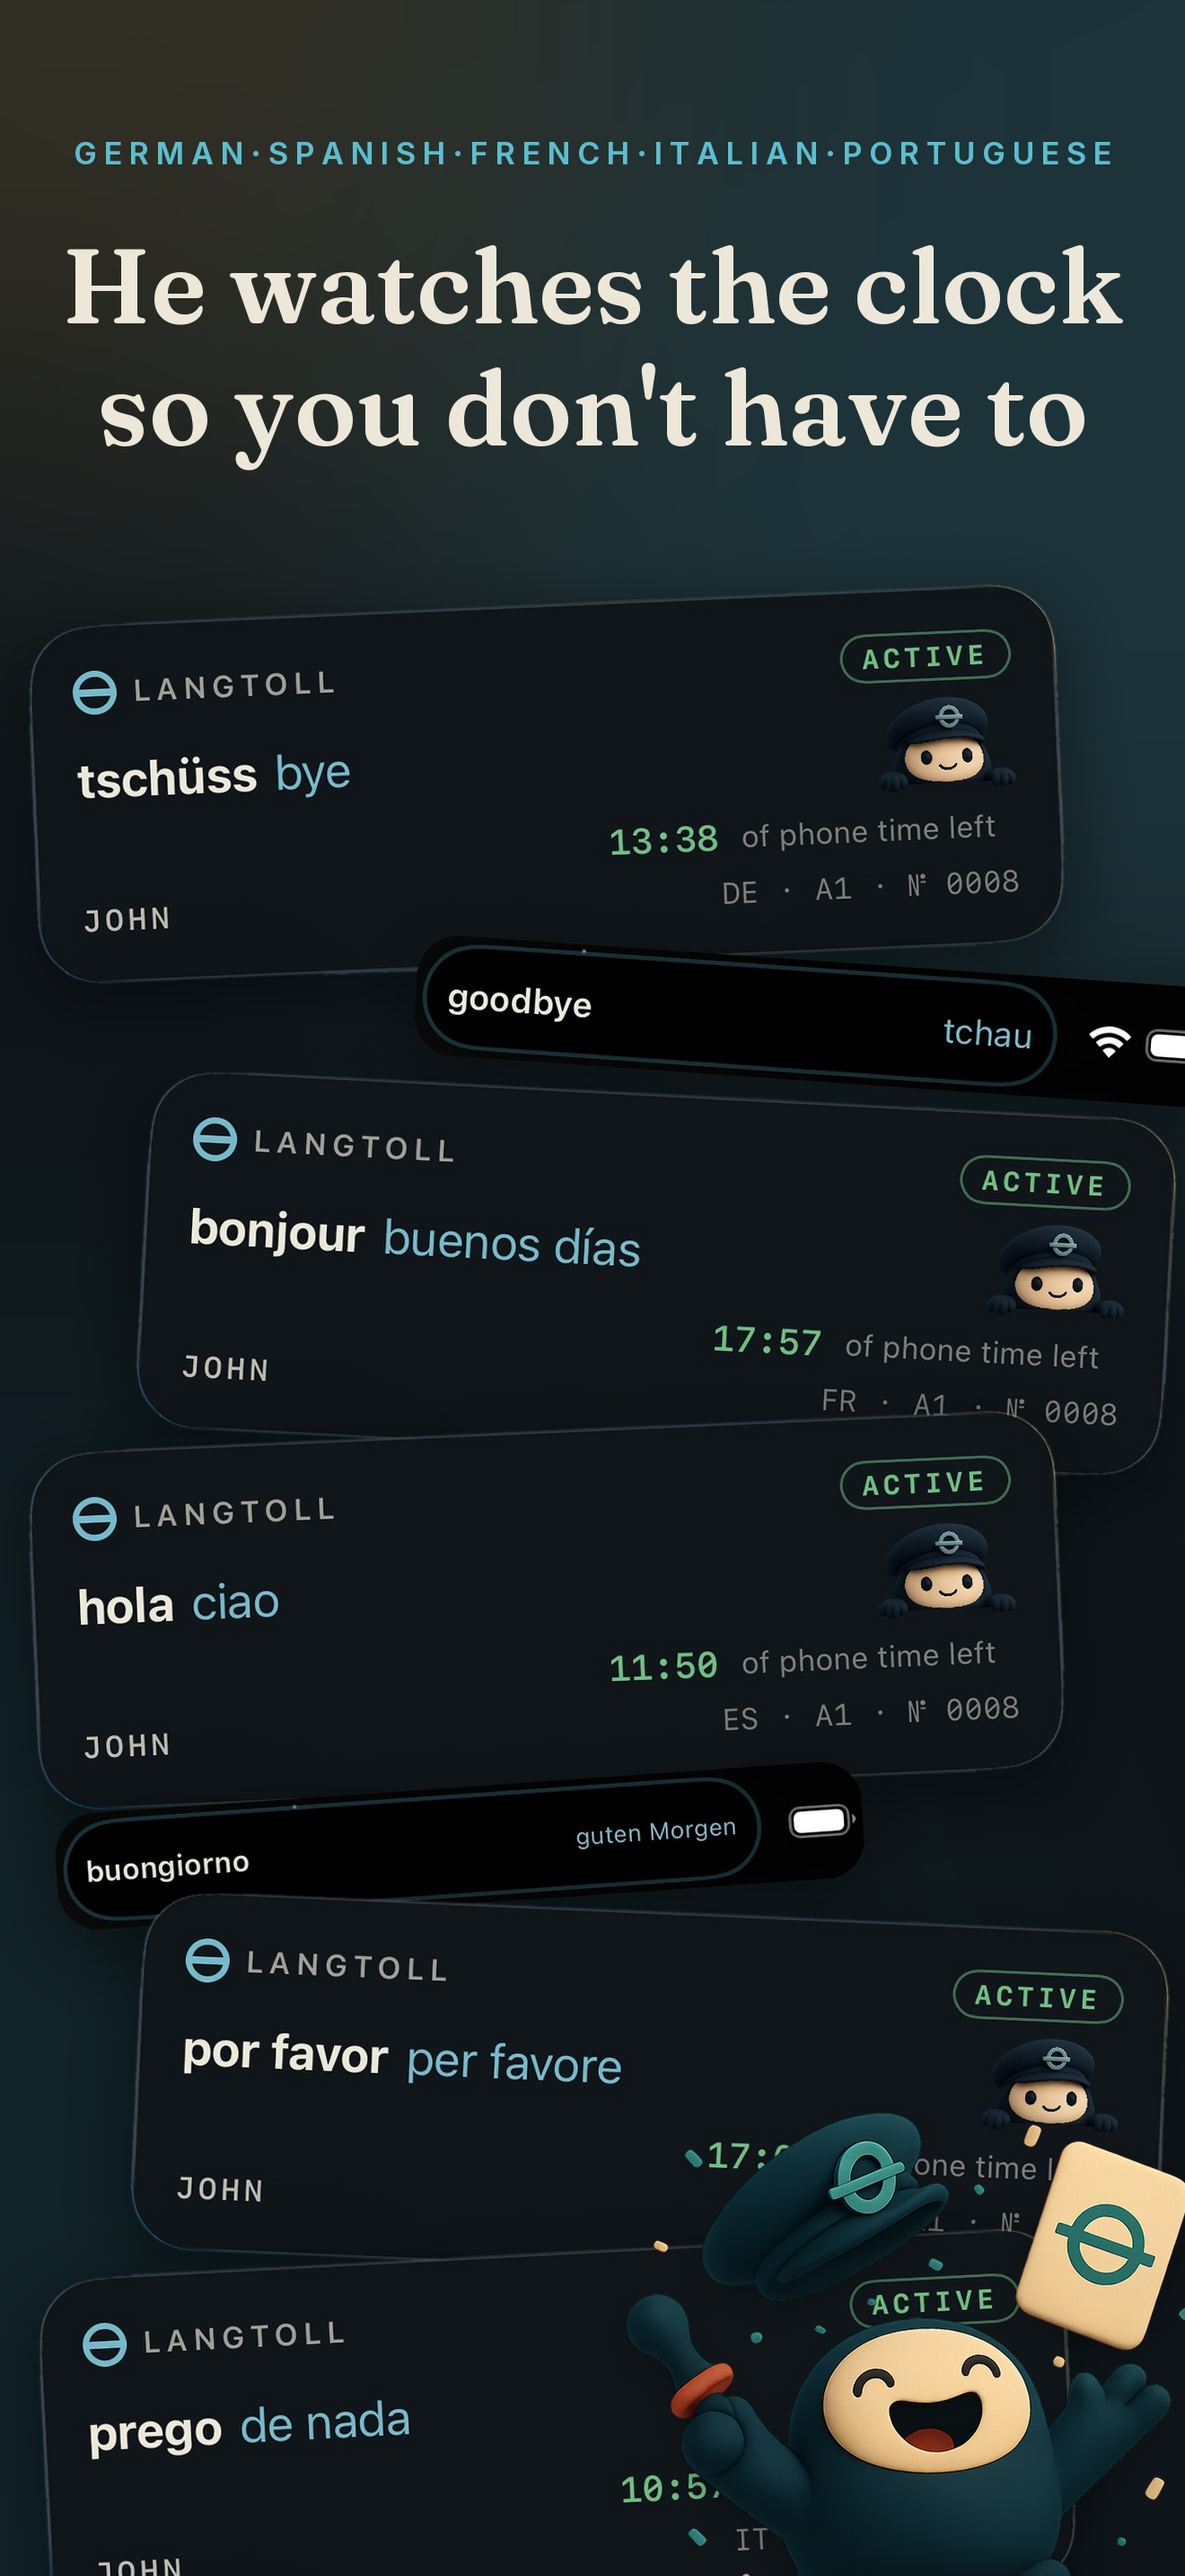
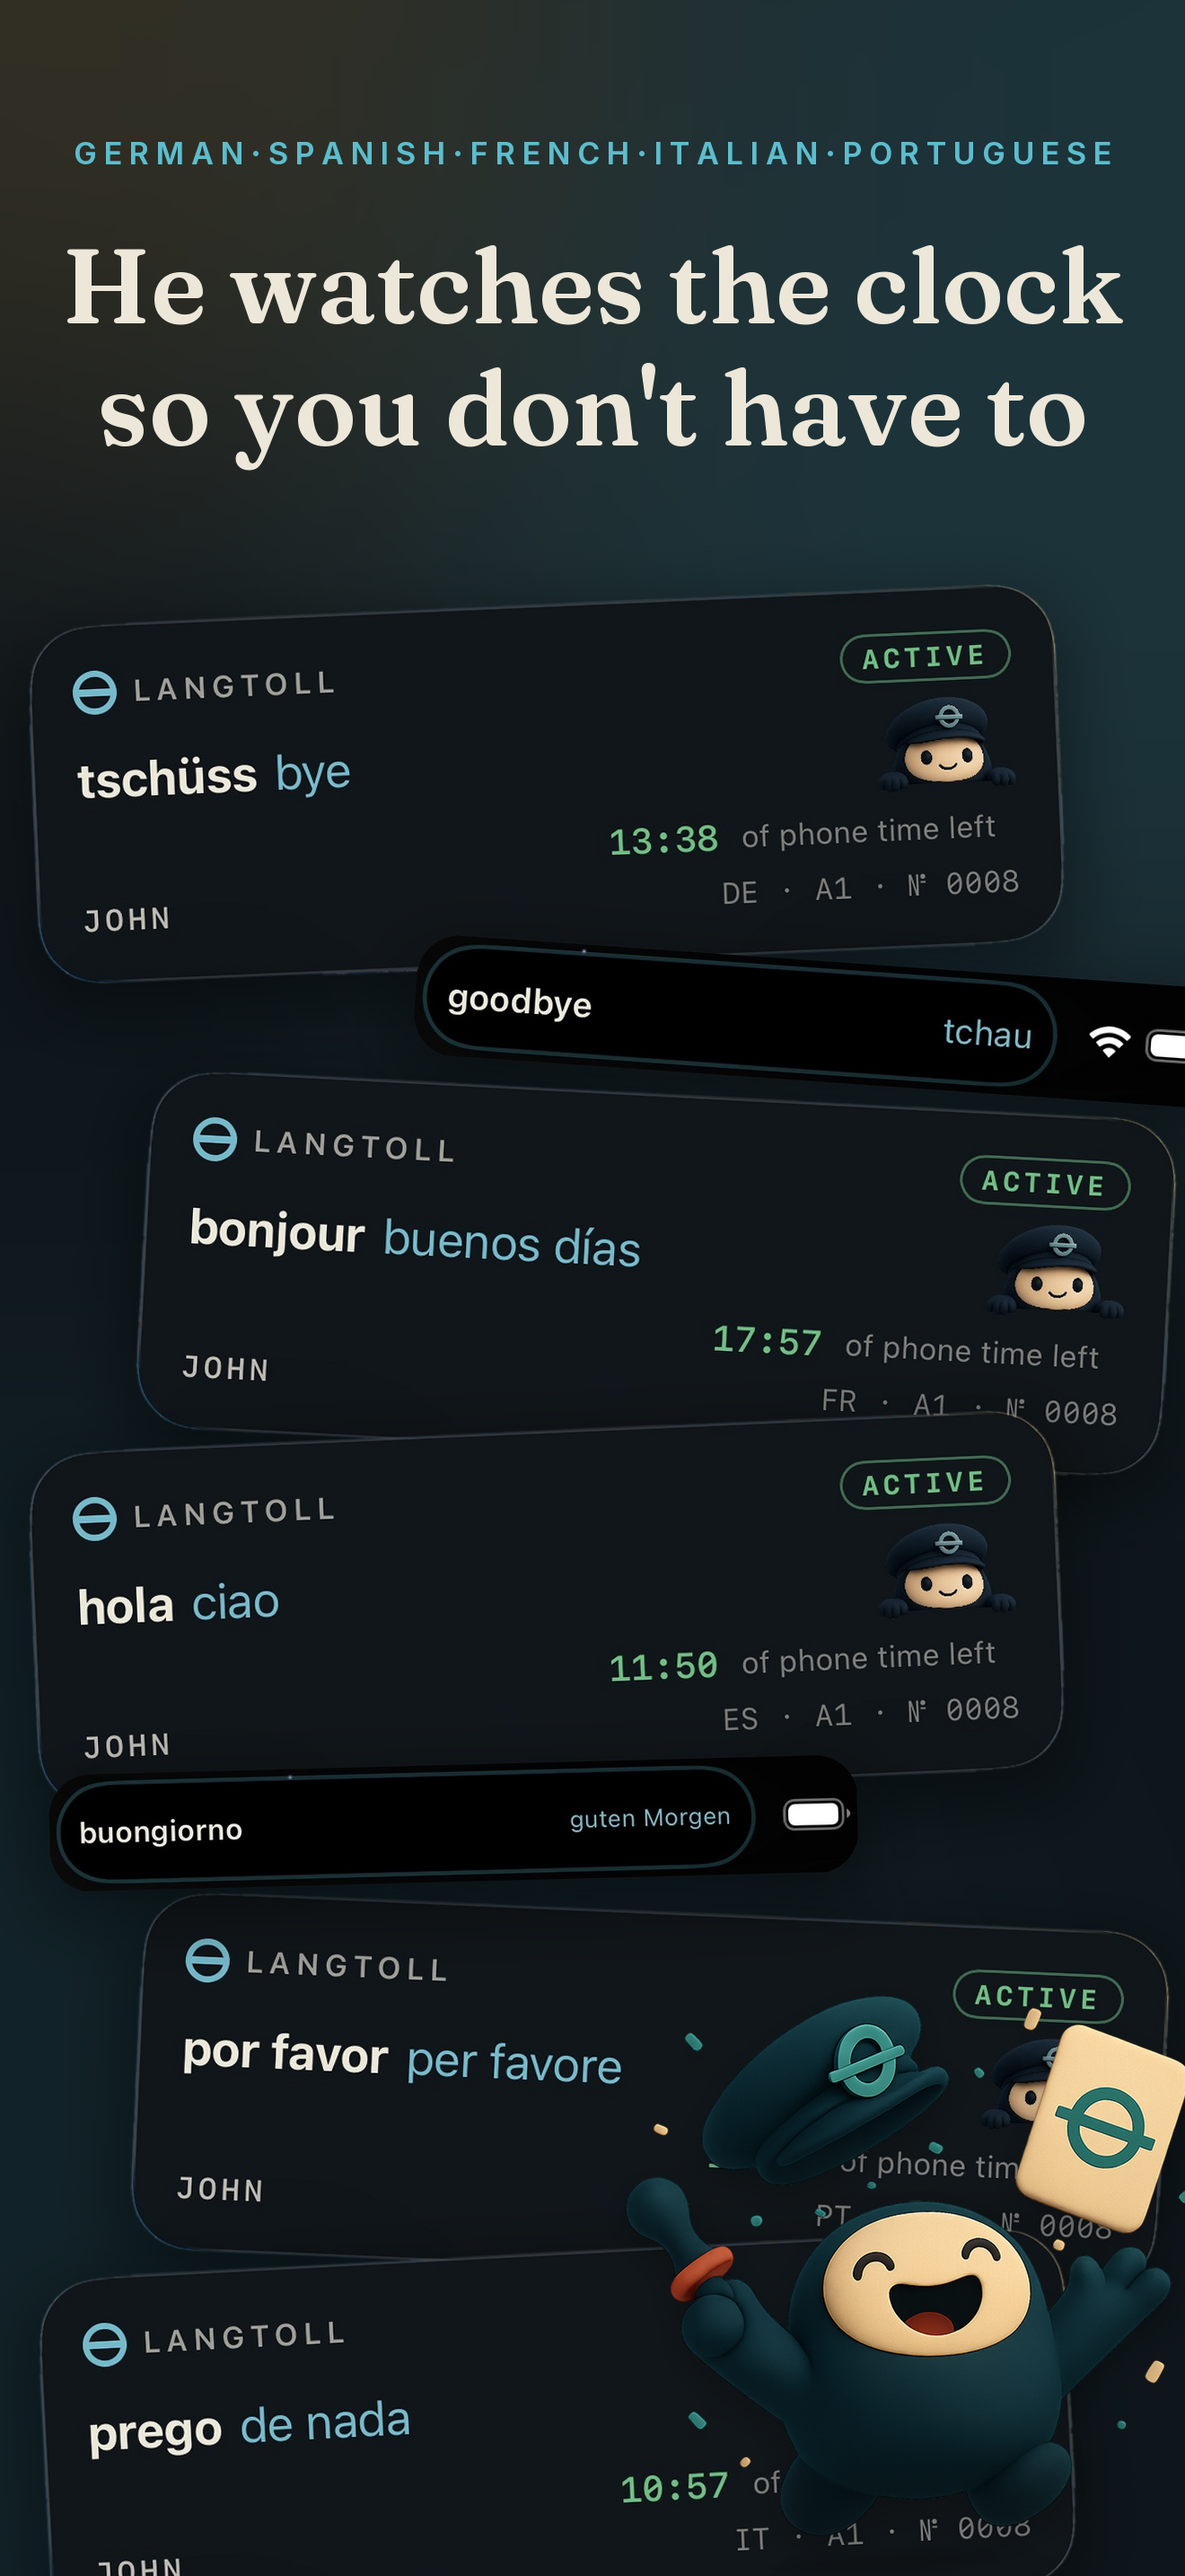
shots: shot 2 final touches — Tolly rises, the hat illusion dies, buongiorno leads
Tolly raised so his body covers prego's ACTIVE pill (it read as a hat perched
on his head), and the buongiorno island pill straightens to 1.5 degrees and
moves to the top of the paint order — the one nearly-level card in front of
the cascade.

Claude-Session: https://claude.ai/code/session_01WH3gWNvxtpgQbCP3L1S9tL

diff --git a/langtoll-mobile/marketing/appstore/store_shots.py b/langtoll-mobile/marketing/appstore/store_shots.py
@@ -245,11 +245,11 @@ SHOTS = [
             {"path": "raw/raw_island_goodbye_tchau_full.jpg", "w": 900, "tilt": -4.0, "x": 330, "y": 910},
             {"path": "raw/raw_lock_bonjour_buenosdias_exact.png", "w": 1150, "tilt": -3.0, "x": 20, "y": 1060},
             {"path": "raw/raw_lock_hola_ciao_exact.png", "w": 1150, "tilt": 2.5, "x": -100, "y": 1440},
-            {"path": "raw/raw_island_buongiorno_full.jpg", "w": 900, "tilt": 4.0, "x": -70, "y": 1830},
             {"path": "raw/raw_lock_porfavor_perfavore_exact.png", "w": 1150, "tilt": -2.5, "x": 15, "y": 1975},
             {"path": "raw/raw_lock_prego_denada_exact.png", "w": 1150, "tilt": 3.0, "x": -90, "y": 2350},
+            {"path": "raw/raw_island_buongiorno_full.jpg", "w": 900, "tilt": 1.5, "x": -70, "y": 1830},
         ],
-        "tollys": [{"name": "tolly-celebrate", "w": 640, "x": 640, "y": 2270, "tilt": 3.0}],
+        "tollys": [{"name": "tolly-celebrate", "w": 640, "x": 640, "y": 2140, "tilt": 3.0}],
     },
     {
         # The fare: a rep is BUILDING a real sentence from word tiles — not matching\n        # a word to its translation. The caption must never promise more than the\n        # screen proves (an early cut said "order dinner" over a "the coffee" drill).
